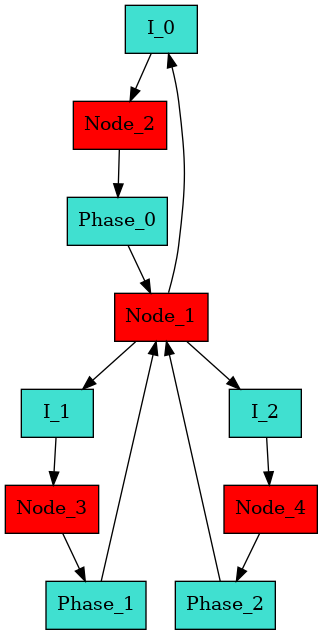
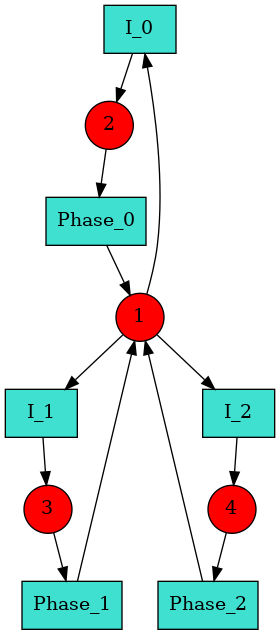
Change plot

diff --git a/PermanentMagnetMachine2D/circuit.py b/PermanentMagnetMachine2D/circuit.py
@@ -68,14 +68,14 @@ def plot_circuit(c: Circuit, fname: Path):
     pins = list(set(pins))
     for pin in pins:
         graph.add_node(
-            pydot.Node(f"Node_{pin}", style="filled", fillcolor="red", shape="box")
+            pydot.Node(f"{pin}", style="filled", fillcolor="red", shape="circle")
         )
 
     # Connect components and nodes/pins
     for comp in c[1].components[0]:
-        edge = pydot.Edge(f"Node_{comp.pin1}", comp.name)
+        edge = pydot.Edge(f"{comp.pin1}", comp.name)
         graph.add_edge(edge)
-        edge = pydot.Edge(comp.name, f"Node_{comp.pin2}")
+        edge = pydot.Edge(comp.name, f"{comp.pin2}")
         graph.add_edge(edge)
 
     save = getattr(graph, f"write_{fname.suffix.replace('.', '')}")
